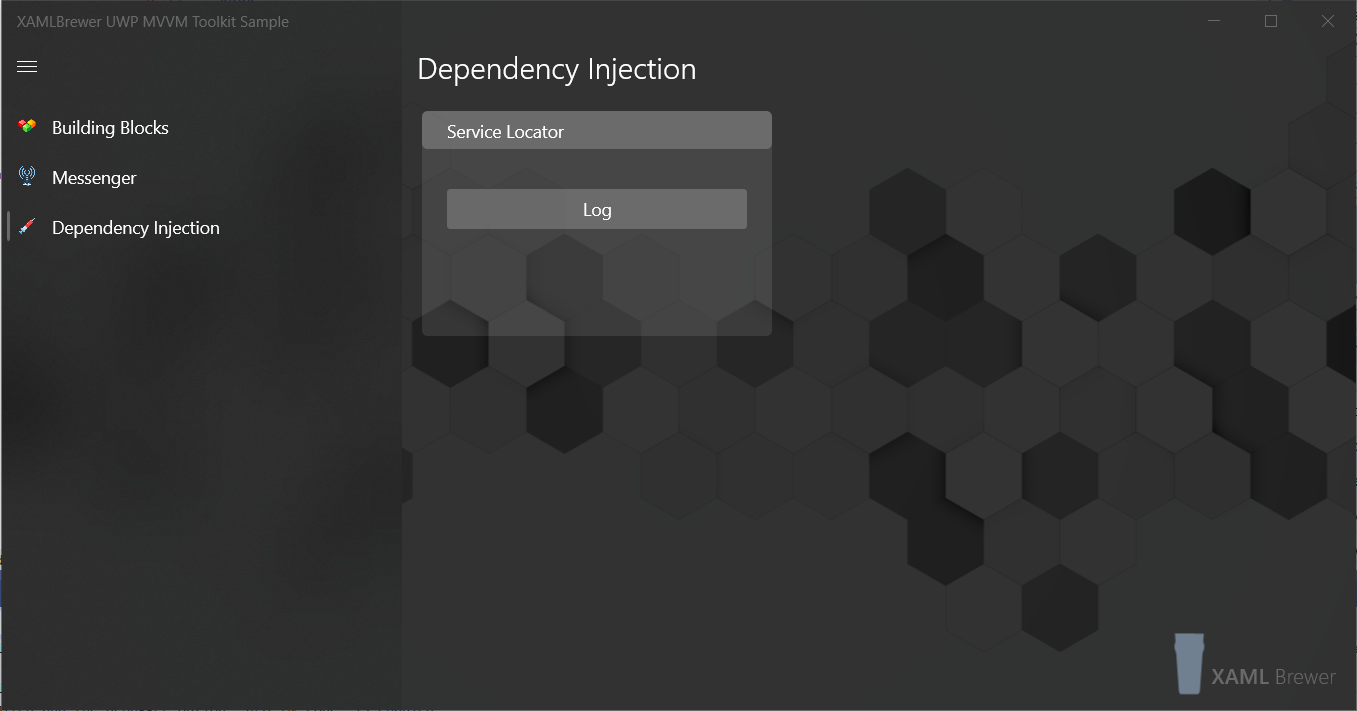
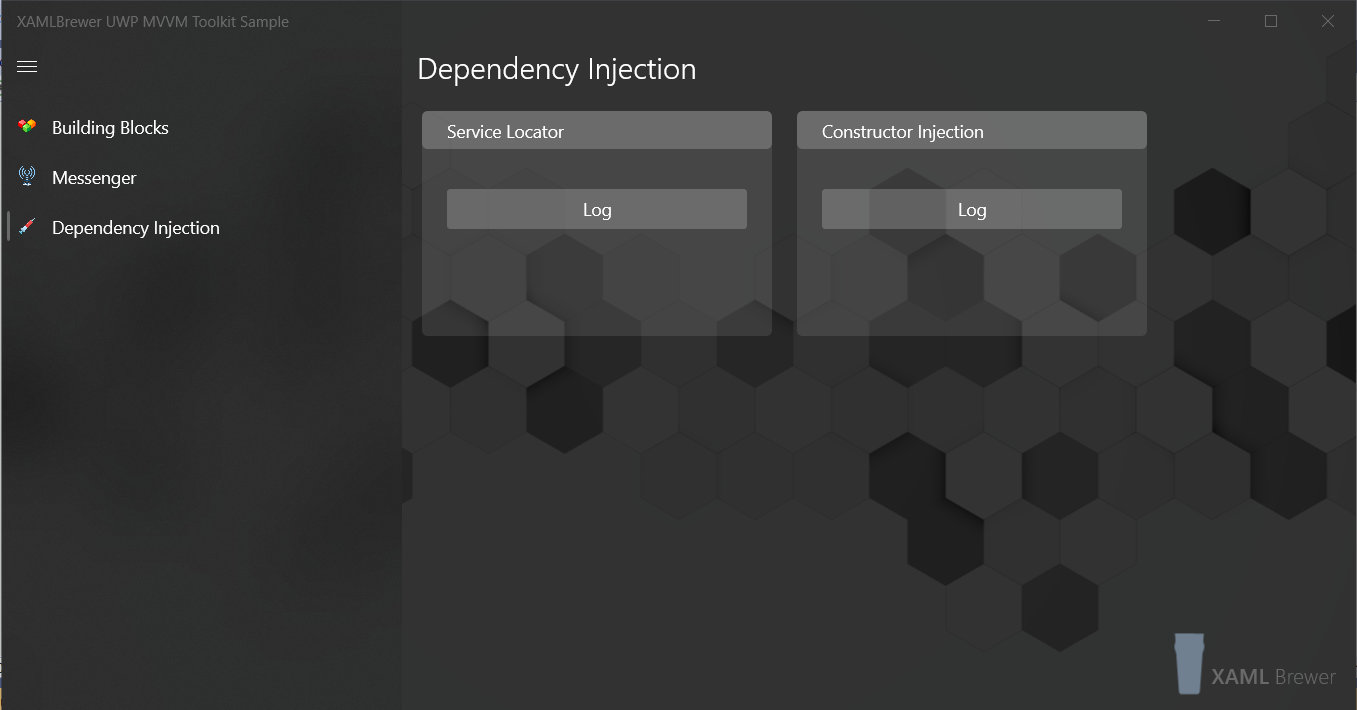
Ioc page: Constructor Injection sample

diff --git a/XamlBrewer.UWP.MvvmToolkit.Sample/Views/InversionOfControlPage.xaml b/XamlBrewer.UWP.MvvmToolkit.Sample/Views/InversionOfControlPage.xaml
@@ -42,6 +42,37 @@
                             Margin="0 12">Log</Button>
                 </StackPanel>
             </Grid>
+            <Grid Padding="0 0 20 20">
+                <Grid.RowDefinitions>
+                    <RowDefinition Height="auto" />
+                    <RowDefinition Height="*" />
+                </Grid.RowDefinitions>
+                <Border CornerRadius="4"
+                        Grid.RowSpan="2">
+                    <Border.Background>
+                        <SolidColorBrush Color="White"
+                                         Opacity=".1" />
+                    </Border.Background>
+                </Border>
+
+                <Border CornerRadius="4"
+                        Height="30">
+                    <Border.Background>
+                        <SolidColorBrush Color="White"
+                                         Opacity=".2" />
+                    </Border.Background>
+                    <TextBlock VerticalAlignment="Center"
+                               Padding="20 4">Constructor Injection</TextBlock>
+                </Border>
+                <StackPanel VerticalAlignment="Top"
+                            Padding="20"
+                            Grid.Row="1">
+
+                    <Button Click="AnotherLogButton_Click"
+                            HorizontalAlignment="Stretch"
+                            Margin="0 12">Log</Button>
+                </StackPanel>
+            </Grid>
         </VariableSizedWrapGrid>
     </Grid>
 </Page>

diff --git a/XamlBrewer.UWP.MvvmToolkit.Sample/Views/InversionOfControlPage.xaml.cs b/XamlBrewer.UWP.MvvmToolkit.Sample/Views/InversionOfControlPage.xaml.cs
@@ -1,8 +1,10 @@
 using Microsoft.Extensions.DependencyInjection;
 using Microsoft.Toolkit.Mvvm.DependencyInjection;
 using System;
+using System.Threading.Tasks;
 using Windows.UI.Xaml.Controls;
 using XamlBrewer.UWP.MvvmToolkit.Sample.Services.Logging;
+using XamlBrewer.UWP.MvvmToolkit.Sample.ViewModels;
 
 namespace XamlBrewer.UWP.MvvmToolkit.Sample.Views
 {
@@ -19,6 +21,12 @@ namespace XamlBrewer.UWP.MvvmToolkit.Sample.Views
 
             // © Planet Trek.
             loggingService.Log($"Captain's Log - Stardate {DateTime.Now} - A friendly lifeform clicked the 'Log' button.");
+        }
+
+        private void AnotherLogButton_Click(object sender, Windows.UI.Xaml.RoutedEventArgs e)
+        {
+            var viewModel = Ioc.Default.GetService<ColorModuleViewModel>();
+            viewModel.LogColor();
         }
     }
 }

diff --git a/XamlBrewer.UWP.MvvmToolkit.Sample/ViewModels/ColorModuleViewModel.cs b/XamlBrewer.UWP.MvvmToolkit.Sample/ViewModels/ColorModuleViewModel.cs
@@ -37,6 +37,14 @@ namespace XamlBrewer.UWP.MvvmToolkit.Sample.ViewModels
             set => Set(ref _color, value);
         }
 
+        public void LogColor()
+        {
+            // For a more generic conversion, go here:
+            // https://stackoverflow.com/questions/26188529/how-to-convert-a-windows-ui-color-into-a-string-color-name-in-a-windows-universa
+            
+            _loggingService.Log($"ColorModule confirms that the color is {(_color == Colors.Red ? "Red" : "Blue")}.");
+        }
+
         protected override void OnActivated()
         {
             base.OnActivated();
